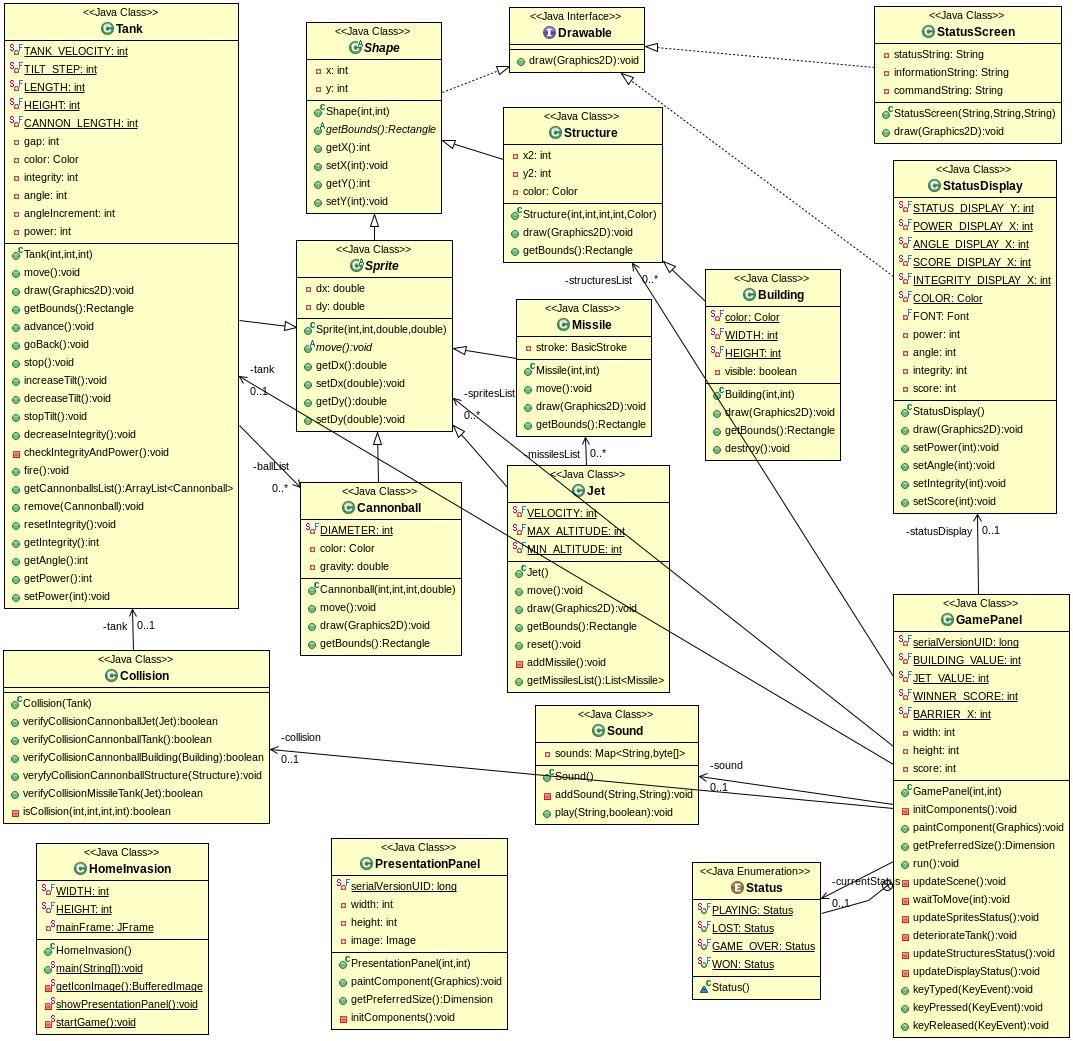
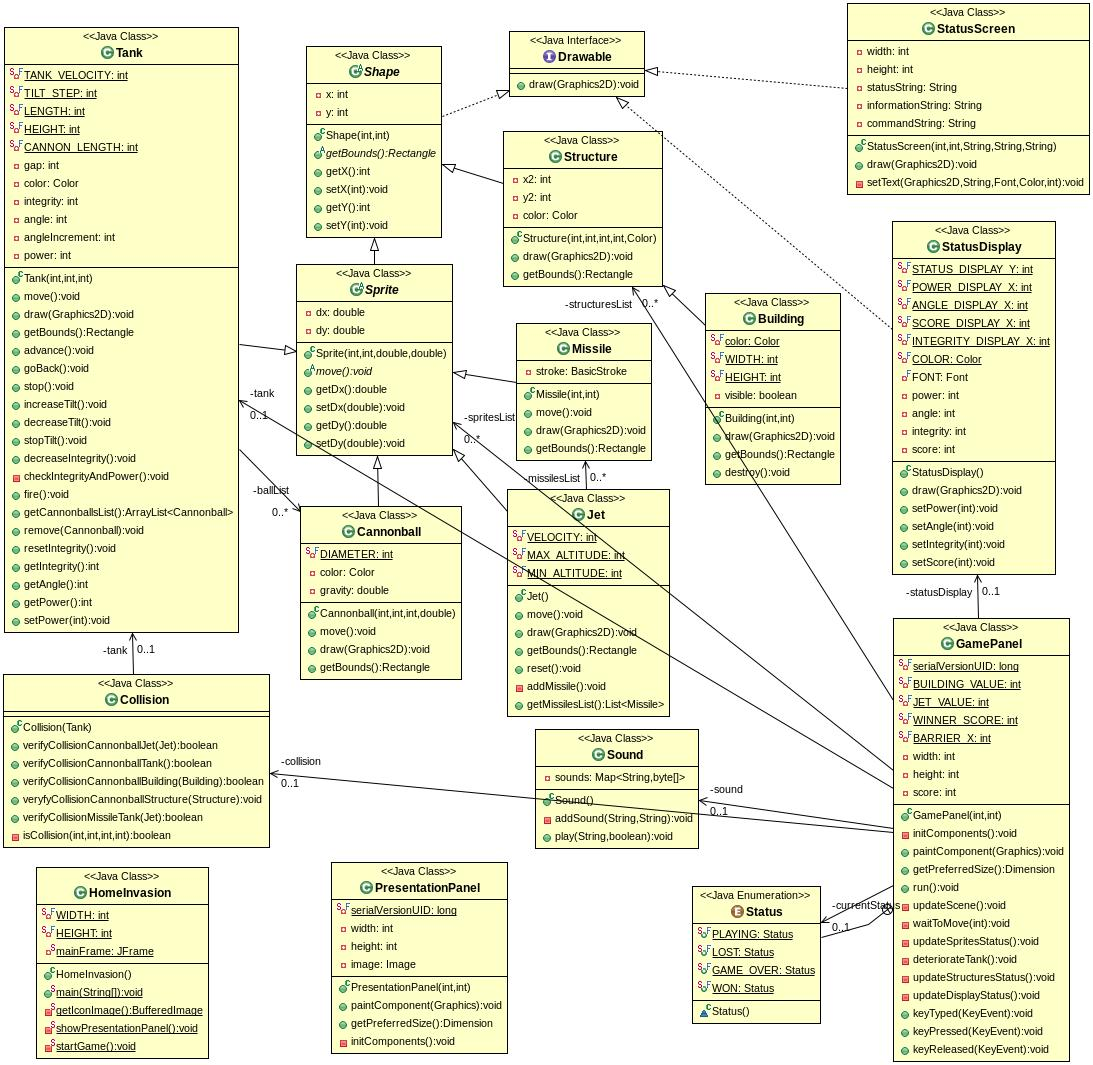
Limpieza de código.

diff --git a/src/main/java/com/ifts16/paradigmasdeprogramacion/homeinvasion/game/shapes/StatusScreen.java b/src/main/java/com/ifts16/paradigmasdeprogramacion/homeinvasion/game/shapes/StatusScreen.java
@@ -32,17 +32,16 @@ import java.awt.Graphics2D;
  *
  */
 public class StatusScreen implements Drawable {
+	private int width;
+	private int height;
 	private String statusString;
 	private String informationString;
 	private String commandString;
 
-	/**
-	 * @param statusString
-	 * @param informationString
-	 * @param commandString
-	 */
-	public StatusScreen(String statusString, String informationString, String commandString) {
+	public StatusScreen(int width, int height, String statusString, String informationString, String commandString) {
 		super();
+		this.width = width;
+		this.height = height;
 		this.statusString = statusString;
 		this.informationString = informationString;
 		this.commandString = commandString;
@@ -51,35 +50,19 @@ public class StatusScreen implements Drawable {
 	@Override
 	public void draw(Graphics2D g2d) {
 		g2d.setBackground(Color.BLACK);
-		g2d.setColor(Color.RED);
-		Font font = new Font("Dialog", Font.BOLD, 30);
-		g2d.setFont(font);
-		FontMetrics metrics = g2d.getFontMetrics(font);
-		int stringWidth = metrics.stringWidth(statusString);
-		int stringHeight = metrics.getHeight();
-		int x = (800 - stringWidth) / 2;
-		int y = (500 - stringHeight) / 2;
-		g2d.drawString(statusString, x, y);
-
-		if (informationString != null) {
-			g2d.setColor(Color.CYAN);
-			font = new Font("Dialog", Font.PLAIN, 20);
-			g2d.setFont(font);
-			metrics = g2d.getFontMetrics(font);
-			stringWidth = metrics.stringWidth(informationString);
-			x = (800 - stringWidth) / 2;
-			g2d.drawString(informationString, x, y + 50);
-		}
-
-		if (commandString != null) {
-			g2d.setColor(Color.WHITE);
-			font = new Font("Dialog", Font.PLAIN, 15);
-			g2d.setFont(font);
-			metrics = g2d.getFontMetrics(font);
-			stringWidth = metrics.stringWidth(commandString);
-			x = (800 - stringWidth) / 2;
-			g2d.drawString(commandString, x, y + 100);
-		}
+		setText(g2d, statusString, new Font("Dialog", Font.BOLD, 30), Color.RED, height / 3);
+		if (informationString != null)
+			setText(g2d, informationString, new Font("Dialog", Font.PLAIN, 20), Color.CYAN, height / 2);
+		if (commandString != null)
+			setText(g2d, commandString, new Font("Dialog", Font.PLAIN, 15), Color.WHITE, 2 * height / 3);
 	}
-
+	
+	private void setText(Graphics2D g2d, String text, Font font, Color color, int y) {
+		g2d.setFont(font);
+		g2d.setColor(color);
+		FontMetrics metrics = g2d.getFontMetrics(font);
+		int stringWidth = metrics.stringWidth(text);
+		int x = (width - stringWidth) / 2;
+		g2d.drawString(text, x, y);
+	}
 }

diff --git a/src/main/java/com/ifts16/paradigmasdeprogramacion/homeinvasion/game/GamePanel.java b/src/main/java/com/ifts16/paradigmasdeprogramacion/homeinvasion/game/GamePanel.java
@@ -112,11 +112,11 @@ public class GamePanel extends JPanel implements KeyListener, Runnable {
 				structure.draw(g2d);
 			statusDisplay.draw(g2d);
 		} else if (currentStatus == Status.LOST) {
-			new StatusScreen("TANQUE DETERIORADO", "Estado del tanque: " + tank.getIntegrity() + "%", "Enter para continuar.").draw(g2d);
+			new StatusScreen(width, height, "TANQUE DETERIORADO", "Estado del tanque: " + tank.getIntegrity() + "%", "Enter para continuar.").draw(g2d);
 		} else if (currentStatus == Status.GAME_OVER) {
-			new StatusScreen("JUEGO TERMINADO", "Puntaje obtenido: " + score, "Enter para continuar. / Esc para terminar.").draw(g2d);
+			new StatusScreen(width, height, "JUEGO TERMINADO", "Puntaje obtenido: " + score, "Enter para continuar. / Esc para terminar.").draw(g2d);
 		} else if (currentStatus == Status.WON) {
-			new StatusScreen("USTED GANA", "Puntaje obtenido: " + score, "Enter para continuar. / Esc para terminar.").draw(g2d);
+			new StatusScreen(width, height, "USTED GANA", "Puntaje obtenido: " + score, "Enter para continuar. / Esc para terminar.").draw(g2d);
 		}
 	}
 
@@ -147,7 +147,8 @@ public class GamePanel extends JPanel implements KeyListener, Runnable {
 		try {
 			Thread.sleep(millis);
 		} catch (InterruptedException e) {
-			e.printStackTrace();
+			System.out.println("Se produjo una interrupción en tiempo de espera.");
+			throw new RuntimeException(e);
 		}
 	}
 

diff --git a/src/main/java/com/ifts16/paradigmasdeprogramacion/homeinvasion/game/shapes/StatusDisplay.java b/src/main/java/com/ifts16/paradigmasdeprogramacion/homeinvasion/game/shapes/StatusDisplay.java
@@ -46,13 +46,6 @@ public class StatusDisplay implements Drawable {
 		FONT = new Font("Dialog", Font.BOLD, 13);
 	}
 
-	/*
-	 * (non-Javadoc)
-	 * 
-	 * @see
-	 * com.ifts16.paradigmasdeprogramacion.homeinvasion.game.sprites.Shape#draw(
-	 * java.awt.Graphics2D)
-	 */
 	@Override
 	public void draw(Graphics2D g2d) {
 		g2d.setColor(COLOR);
@@ -63,32 +56,19 @@ public class StatusDisplay implements Drawable {
 		g2d.drawString("PUNTAJE: " + score, SCORE_DISPLAY_X, STATUS_DISPLAY_Y);
 	}
 
-	/**
-	 * @param power the power to set
-	 */
 	public void setPower(int power) {
 		this.power = power;
 	}
 
-	/**
-	 * @param angle the angle to set
-	 */
 	public void setAngle(int angle) {
 		this.angle = angle;
 	}
 
-	/**
-	 * @param integrity the integrity to set
-	 */
 	public void setIntegrity(int integrity) {
 		this.integrity = integrity;
 	}
 
-	/**
-	 * @param score the score to set
-	 */
 	public void setScore(int score) {
 		this.score = score;
 	}
-
 }

diff --git a/src/main/java/com/ifts16/paradigmasdeprogramacion/homeinvasion/game/shapes/sprites/Cannonball.java b/src/main/java/com/ifts16/paradigmasdeprogramacion/homeinvasion/game/shapes/sprites/Cannonball.java
@@ -35,12 +35,6 @@ public class Cannonball extends Sprite {
 	private Color color;
 	private double gravity = 0.1;
 
-	/**
-	 * @param x
-	 * @param y
-	 * @param dx
-	 * @param dy
-	 */
 	public Cannonball(int x, int y, int velocity, double tilt) {
 		super(x, y, velocity * (Math.cos(Math.toRadians(tilt))), -velocity * (Math.sin(Math.toRadians(tilt))));
 		color = new Color(0, 51, 0);
@@ -59,6 +53,7 @@ public class Cannonball extends Sprite {
         g2d.fillOval(getX(), getY(), DIAMETER, DIAMETER);
 	}
 
+	@Override
 	public Rectangle getBounds() {
 		Rectangle rectangle = new Rectangle(getX(), getY(), DIAMETER, DIAMETER);
 		return rectangle;

diff --git a/src/main/java/com/ifts16/paradigmasdeprogramacion/homeinvasion/game/shapes/Shape.java b/src/main/java/com/ifts16/paradigmasdeprogramacion/homeinvasion/game/shapes/Shape.java
@@ -38,30 +38,18 @@ public abstract class Shape implements Drawable{
 
 	public abstract Rectangle getBounds();
 
-	/**
-	 * @return the x
-	 */
 	public int getX() {
 		return x;
 	}
 
-	/**
-	 * @param x the x to set
-	 */
 	public void setX(int x) {
 		this.x = x;
 	}
 
-	/**
-	 * @return the y
-	 */
 	public int getY() {
 		return y;
 	}
 
-	/**
-	 * @param y the y to set
-	 */
 	public void setY(int y) {
 		this.y = y;
 	}

diff --git a/src/main/java/com/ifts16/paradigmasdeprogramacion/homeinvasion/game/shapes/sprites/Tank.java b/src/main/java/com/ifts16/paradigmasdeprogramacion/homeinvasion/game/shapes/sprites/Tank.java
@@ -24,7 +24,7 @@ public class Tank extends Sprite {
 		integrity = 100;
 		angle = 0;
 		power = 1;
-		this.gap = range - LENGTH / 2 + CANNON_LENGTH;
+		this.gap = range - (LENGTH / 2 + CANNON_LENGTH);
 		color = new Color(51, 102, 0);
 		ballList = new ArrayList<>();
 	}

diff --git a/src/main/java/com/ifts16/paradigmasdeprogramacion/homeinvasion/game/shapes/Structure.java b/src/main/java/com/ifts16/paradigmasdeprogramacion/homeinvasion/game/shapes/Structure.java
@@ -16,10 +16,10 @@ public class Structure extends Shape {
 		this.color = color;
 	}
 
+	@Override
 	public void draw(Graphics2D g2d) {
 		g2d.setColor(color);
 		g2d.fillRect(getX(), getY(), x2 - getX(), y2 - getY());
-
 	}
 
 	@Override

diff --git a/src/main/java/com/ifts16/paradigmasdeprogramacion/homeinvasion/game/shapes/Drawable.java b/src/main/java/com/ifts16/paradigmasdeprogramacion/homeinvasion/game/shapes/Drawable.java
@@ -26,7 +26,6 @@ import java.awt.Graphics2D;
 
 /**
  * @author Adrián E. Córdoba [software.asia@gmail.com]
- *
  */
 public interface Drawable {
 	void draw(Graphics2D g2d);

diff --git a/src/main/java/com/ifts16/paradigmasdeprogramacion/homeinvasion/game/shapes/Building.java b/src/main/java/com/ifts16/paradigmasdeprogramacion/homeinvasion/game/shapes/Building.java
@@ -54,7 +54,6 @@ public class Building extends Structure {
 		else
 			rectangle = new Rectangle(0, 0, 0, 0);
 		return rectangle;
-		
 	}
 	
 	public void destroy() {

diff --git a/src/main/java/com/ifts16/paradigmasdeprogramacion/homeinvasion/HomeInvasion.java b/src/main/java/com/ifts16/paradigmasdeprogramacion/homeinvasion/HomeInvasion.java
@@ -87,7 +87,6 @@ public class HomeInvasion {
 			}
 		});
 		startButton.setFocusable(false);
-		
 	}
 
 	private static void startGame() {
